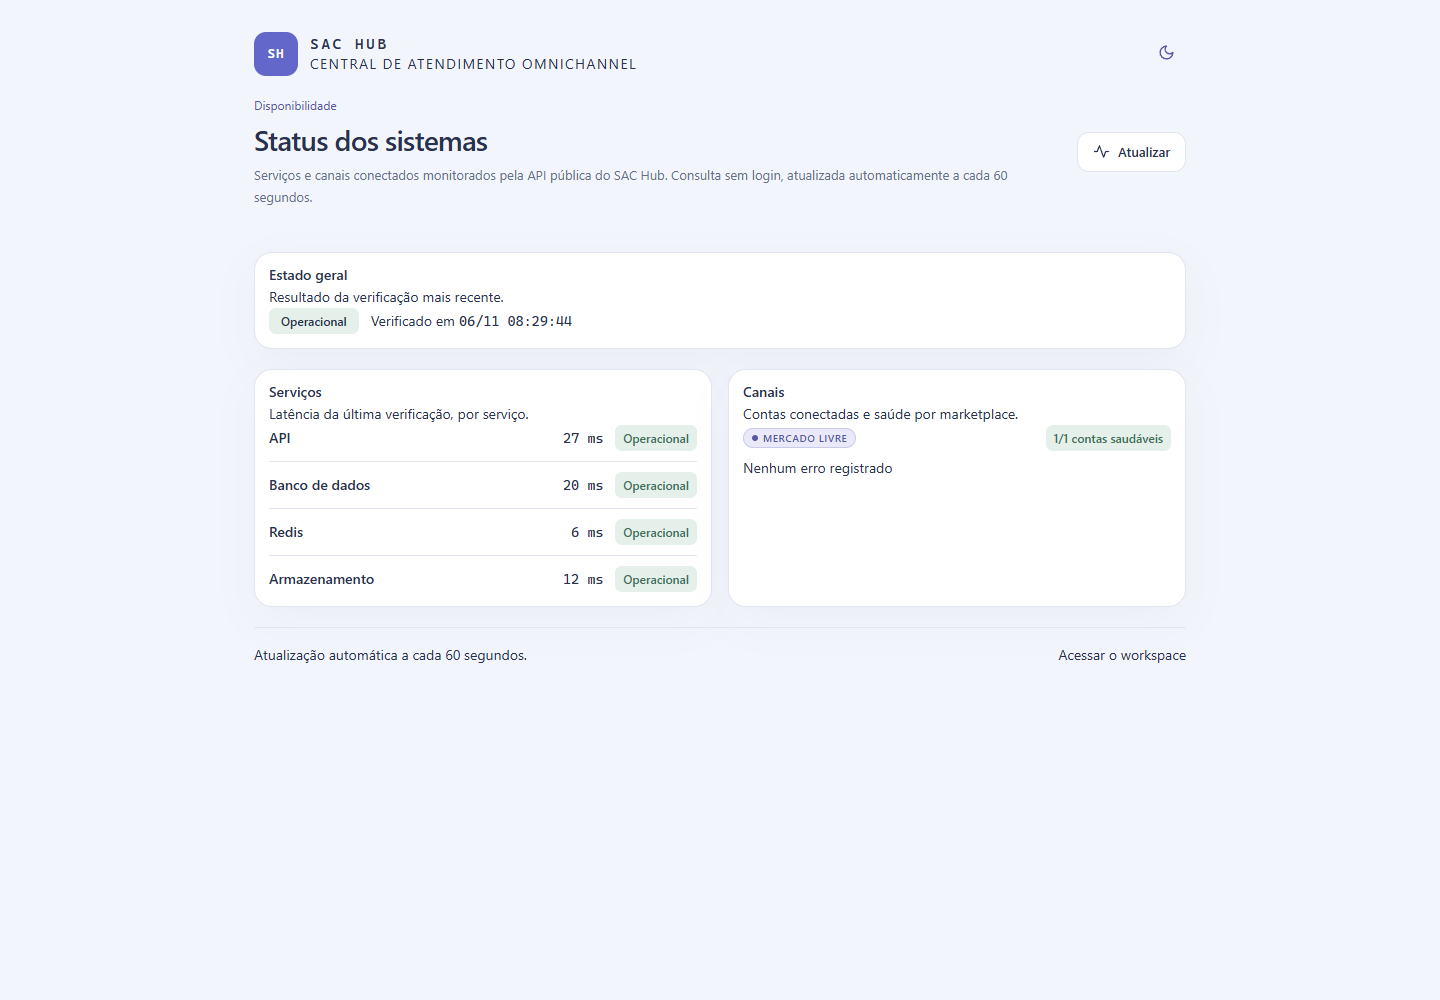
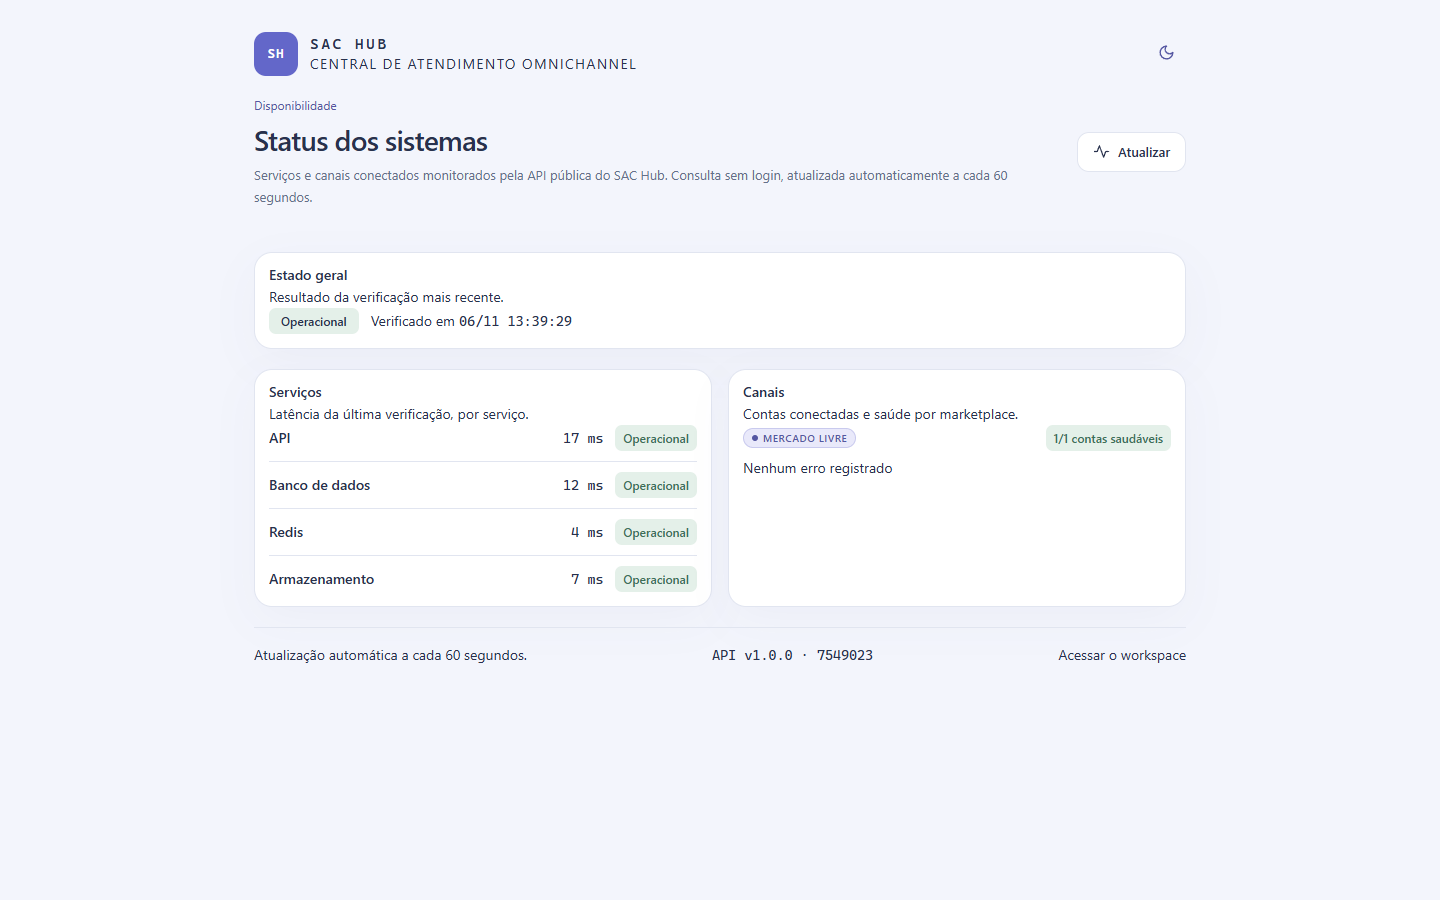
feat(web): /status mostra build da API (versao + commit)

diff --git a/apps/web/src/pages/StatusPage.tsx b/apps/web/src/pages/StatusPage.tsx
@@ -2,7 +2,7 @@ import { useCallback, useEffect, useRef, useState } from 'react';
 import { Link } from 'react-router-dom';
 import { Moon, Sun } from 'lucide-react';
 import { PageHeader } from '@xploryng/convergencia';
-import { api } from '../lib/api';
+import { api, type ApiVersionInfo } from '../lib/api';
 import { formatDateTimeSeconds } from '../lib/format';
 import { useTheme } from '../lib/theme';
 import {
@@ -156,6 +156,7 @@ export function StatusPage(): JSX.Element {
   const { theme, toggle } = useTheme();
 
   const [snapshot, setSnapshot] = useState<SystemStatusSnapshot | null>(null);
+  const [version, setVersion] = useState<ApiVersionInfo | null>(null);
   const [loading, setLoading] = useState(true);
   const [refreshing, setRefreshing] = useState(false);
   const [error, setError] = useState<string | null>(null);
@@ -182,6 +183,14 @@ export function StatusPage(): JSX.Element {
       if (!mountedRef.current) return;
       setSnapshot(result);
       setError(null);
+      // Build identity is informative only: a failure here must never hide the
+      // availability snapshot.
+      void api
+        .version()
+        .then((info) => {
+          if (mountedRef.current) setVersion(info);
+        })
+        .catch(() => undefined);
     } catch (failure) {
       if (!mountedRef.current) return;
       // Keeps the last real snapshot on screen; the alert states it is stale.
@@ -310,6 +319,12 @@ export function StatusPage(): JSX.Element {
 
         <footer className="flex flex-wrap items-center justify-between gap-2 border-t border-[var(--cv-color-border)] pt-4 text-[var(--cv-font-meta)] text-[var(--cv-color-text-muted)]">
           <span>Atualização automática a cada 60 segundos.</span>
+          <span className="sac-num" title="Build da API que respondeu à esta página">
+            API{' '}
+            {version === null
+              ? '—'
+              : `v${version.version}${version.commit === null ? '' : ` · ${version.commit.slice(0, 7)}`}`}
+          </span>
           <Link
             to="/"
             className="underline-offset-2 hover:text-[var(--cv-color-text)] hover:underline"

diff --git a/apps/web/src/lib/api.ts b/apps/web/src/lib/api.ts
@@ -26,6 +26,19 @@ import type {
   TicketStats,
 } from '@sac/shared';
 
+/**
+ * Public build identity returned by `GET /version` (no session required).
+ * Used by the status page to show which API build is answering.
+ */
+export interface ApiVersionInfo {
+  version: string;
+  commit: string | null;
+  node: string;
+  env: string;
+  uptimeSeconds: number;
+  startedAt: string;
+}
+
 import type {
   AcceptInvitationBody,
   AccountRow,
@@ -914,6 +927,8 @@ export interface ApiClient {
    * reach the API.
    */
   status(): Promise<SystemStatusSnapshot>;
+  /** Public build identity (`GET /version`); never requires a session. */
+  version(): Promise<ApiVersionInfo>;
   /** Creates tenant + first ADMIN and mails the verification link (public). */
   signup(body: SignupBody): Promise<SignupResult>;
   /** Consumes the single-use verification token (public). */
@@ -1699,6 +1714,13 @@ export const api: ApiClient = {
 
   me() {
     return request<IAgentSummary>('/auth/me');
+  },
+
+  version() {
+    return request<ApiVersionInfo>('/version', {
+      timeoutMs: 5_000,
+      cache: 'no-store',
+    });
   },
 
   async status() {

diff --git a/docs/LIVE_VALIDATIONS.md b/docs/LIVE_VALIDATIONS.md
@@ -476,3 +476,10 @@ osv-scanner lockfile -> No issues found (581 pacotes)
 Removidos s3rver (nao usado) e vitest2/vite5; agora vitest 4.1.12 + vite 6.4.5 (override)
 1072 testes + builds verdes apos o upgrade
 ```
+
+### 46. Build da API visivel no /status
+```
+/status (publico) -> rodape: "API v1.0.0 · 7549023" (version + commit de GET /version)
+fonte: GET /version publico; falha na consulta nao esconde o snapshot de disponibilidade
+a11y: 10/10 telas com 0 violacoes apos a mudanca
+```
